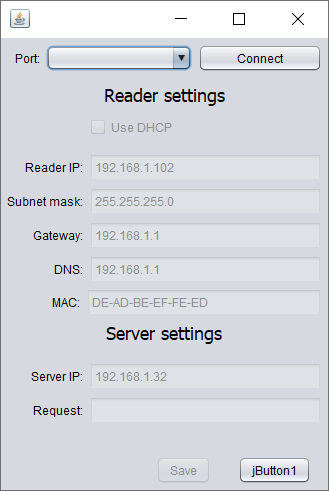
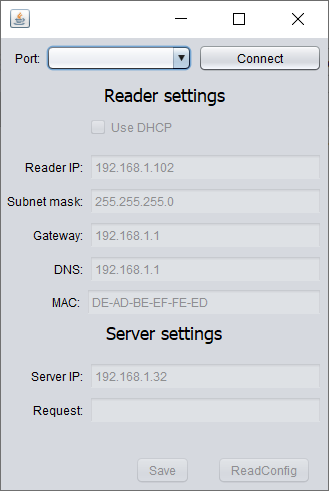
btnReadConfig

Changed region(s): [[0.6991, 0.947, 0.9422, 1.0], [0.4559, 0.947, 0.6079, 0.9776], [0.5471, 0.0916, 0.5775, 0.1527]]

diff --git a/src/nfcreadersetupswing/MainFrame.java b/src/nfcreadersetupswing/MainFrame.java
@@ -54,7 +54,7 @@ public class MainFrame extends javax.swing.JFrame implements jssc.SerialPortEven
         jLabel9 = new javax.swing.JLabel();
         edRequest = new javax.swing.JTextField();
         sendButton = new javax.swing.JButton();
-        jButton1 = new javax.swing.JButton();
+        btnReadConfig = new javax.swing.JButton();
         jLabel10 = new javax.swing.JLabel();
         edMAC = new javax.swing.JTextField();
 
@@ -136,10 +136,11 @@ public class MainFrame extends javax.swing.JFrame implements jssc.SerialPortEven
             }
         });
 
-        jButton1.setText("jButton1");
-        jButton1.addActionListener(new java.awt.event.ActionListener() {
+        btnReadConfig.setText("ReadConfig");
+        btnReadConfig.setEnabled(false);
+        btnReadConfig.addActionListener(new java.awt.event.ActionListener() {
             public void actionPerformed(java.awt.event.ActionEvent evt) {
-                jButton1ActionPerformed(evt);
+                btnReadConfigActionPerformed(evt);
             }
         });
 
@@ -171,7 +172,7 @@ public class MainFrame extends javax.swing.JFrame implements jssc.SerialPortEven
                 .addGap(0, 0, Short.MAX_VALUE)
                 .addComponent(sendButton)
                 .addGap(27, 27, 27)
-                .addComponent(jButton1)
+                .addComponent(btnReadConfig)
                 .addGap(17, 17, 17))
             .addComponent(jLabel7, javax.swing.GroupLayout.DEFAULT_SIZE, javax.swing.GroupLayout.DEFAULT_SIZE, Short.MAX_VALUE)
             .addGroup(javax.swing.GroupLayout.Alignment.TRAILING, layout.createSequentialGroup()
@@ -256,7 +257,7 @@ public class MainFrame extends javax.swing.JFrame implements jssc.SerialPortEven
                 .addPreferredGap(javax.swing.LayoutStyle.ComponentPlacement.RELATED, 32, Short.MAX_VALUE)
                 .addGroup(layout.createParallelGroup(javax.swing.GroupLayout.Alignment.BASELINE)
                     .addComponent(sendButton)
-                    .addComponent(jButton1))
+                    .addComponent(btnReadConfig))
                 .addContainerGap())
         );
 
@@ -342,14 +343,14 @@ public class MainFrame extends javax.swing.JFrame implements jssc.SerialPortEven
         closeSerialPort();
     }//GEN-LAST:event_formWindowClosing
 
-    private void jButton1ActionPerformed(java.awt.event.ActionEvent evt) {//GEN-FIRST:event_jButton1ActionPerformed
+    private void btnReadConfigActionPerformed(java.awt.event.ActionEvent evt) {//GEN-FIRST:event_btnReadConfigActionPerformed
         String startup = "{\"action\":\"readconfig\"}";
         try {
             serialPort.writeString(startup);
         } catch (SerialPortException ex) {
             Logger.getLogger(MainFrame.class.getName()).log(Level.SEVERE, null, ex);
         }
-    }//GEN-LAST:event_jButton1ActionPerformed
+    }//GEN-LAST:event_btnReadConfigActionPerformed
 
     public void setState() {
         boolean b = serialPort.isOpened();
@@ -370,6 +371,7 @@ public class MainFrame extends javax.swing.JFrame implements jssc.SerialPortEven
         edMAC.setEnabled(b);
         edRequest.setEditable(b);
         sendButton.setEnabled(b);
+        btnReadConfig.setEnabled(b);
     }
 
     public void closeSerialPort() {
@@ -441,6 +443,7 @@ public class MainFrame extends javax.swing.JFrame implements jssc.SerialPortEven
     
 
     // Variables declaration - do not modify//GEN-BEGIN:variables
+    private javax.swing.JButton btnReadConfig;
     private javax.swing.JCheckBox chxUseDHCP;
     private javax.swing.JButton connectButton;
     private javax.swing.JTextField edDNS;
@@ -450,7 +453,6 @@ public class MainFrame extends javax.swing.JFrame implements jssc.SerialPortEven
     private javax.swing.JTextField edRequest;
     private javax.swing.JTextField edServerIp;
     private javax.swing.JTextField edSubnetMask;
-    private javax.swing.JButton jButton1;
     private javax.swing.JLabel jLabel1;
     private javax.swing.JLabel jLabel10;
     private javax.swing.JLabel jLabel2;
